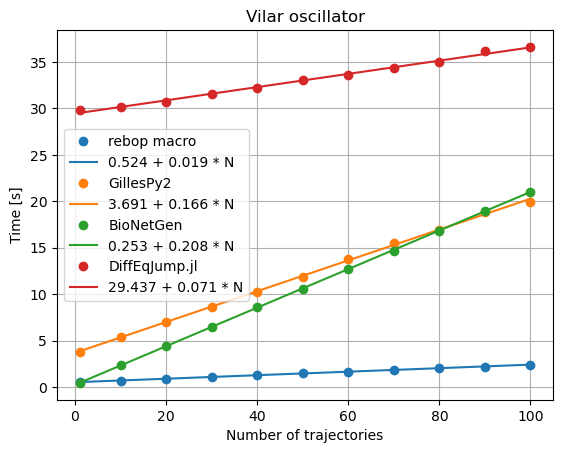
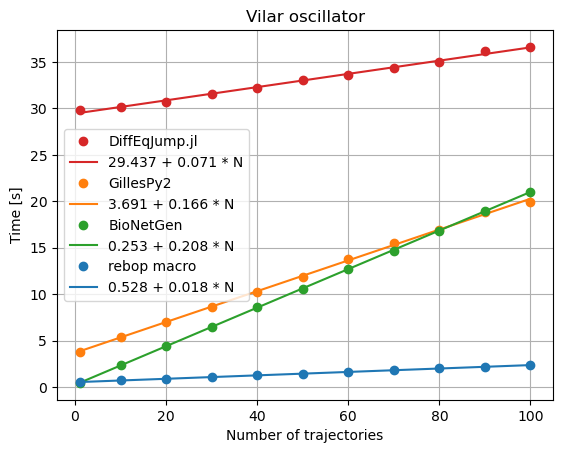
Regenerate graph for Vilar benchmark

diff --git a/benches/vilar/plot.py b/benches/vilar/plot.py
@@ -8,7 +8,9 @@ with open('vilar.csv', 'r') as file:
 data = np.loadtxt('vilar.csv', delimiter=',', skiprows=1)
 ns = data[:, 0]
 
-for i, (name, times) in enumerate(zip(header, data[:, 1:].T)):
+for i in [3, 1, 2, 0]:
+    name = header[i]
+    times = data[:, i+1]
     res = stats.linregress(ns, times)
     plt.plot(ns, times, 'o', color=f'C{i}', label=name)
     plt.plot(ns, res.intercept + res.slope * ns,
